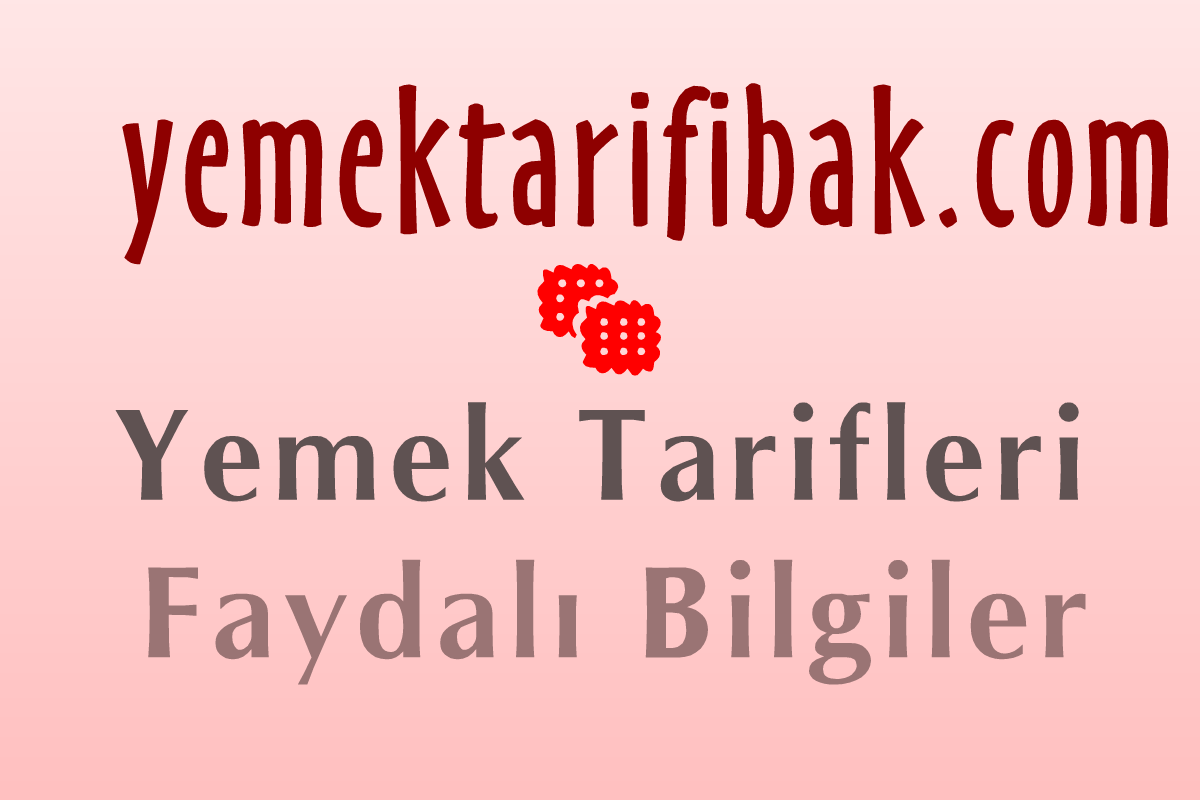
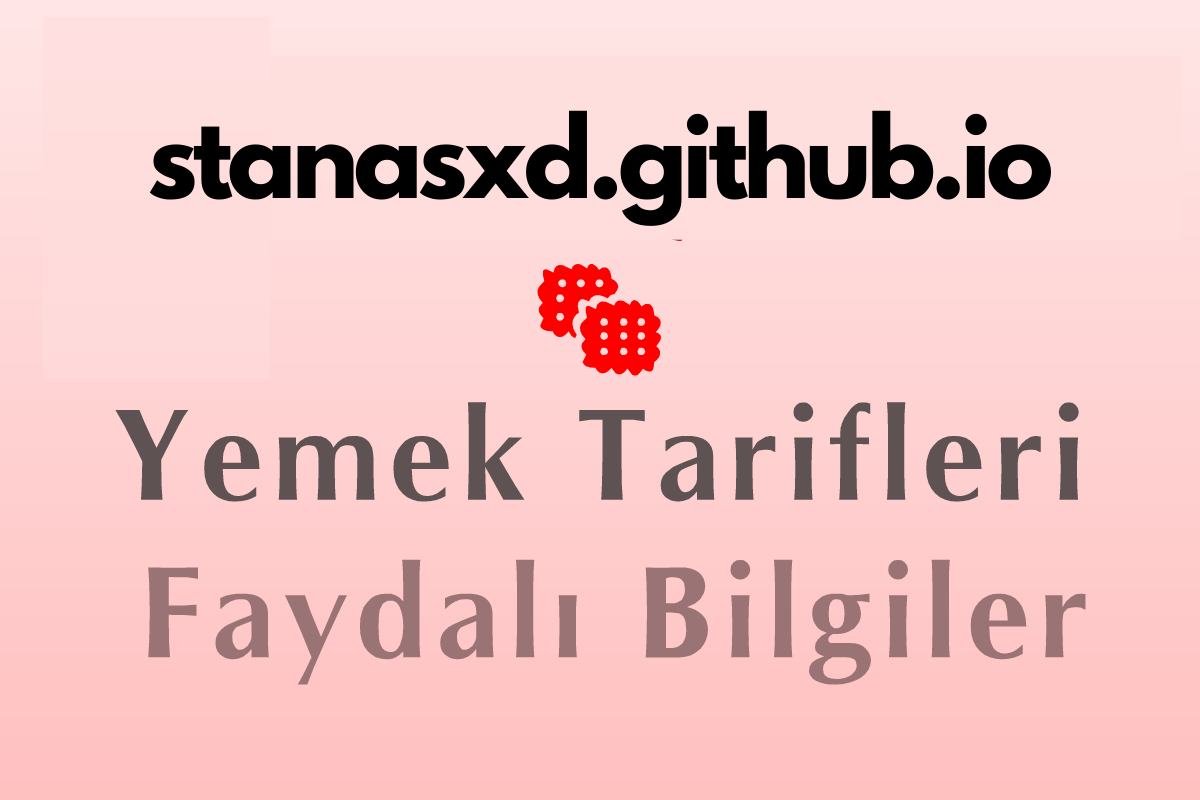
a

Changed region(s): [[0.0925, 0.0938, 0.9867, 0.3438]]

diff --git a/iletisim.html b/iletisim.html
@@ -9,10 +9,10 @@
 <link rel='dns-prefetch' href='//www.googletagmanager.com'>
 <link rel='dns-prefetch' href='//fonts.googleapis.com'>
 <link rel='preload' as='image' href='//img/ytb.png'>
- <title>YemekTarifleriBak.com Sitesi İletişlim Sayfası</title>
+ <title>stanasxd.github.io Sitesi İletişlim Sayfası</title>
  <meta name="description" content="YemekTarifleriBak.com ile ilgili mesajlarınızı bu sayfamızdan tarafımıza iletebilirsiniz.">
 <meta name="robots" content="index, follow">
-<meta name="author" content="Esra Elif">
+<meta name="author" content="Mehmet Demir">
 <link rel="shortcut icon" href="favicon.ico" type="image/x-icon">
 <link rel="apple-touch-icon" href="img/icon-hires.png" sizes="192x192">
 <link rel="image_src" href="img/ytb-max.png">
@@ -172,18 +172,10 @@ Bir veya birden çok gıda maddesini birbirine karıştırmak için kullanılan 
 </ul>
 </aside>
 <footer>
-<iframe src="//www.facebook.com/plugins/likebox.php?href=http%3A%2F%2Fwww.facebook.com%2Fyemektarifibak&width&height=240&colorscheme=light&show_faces=true&header=true&stream=false&show_border=true" style="border:none; overflow:hidden; height:220px;"></iframe>
+<iframe src="https://www.instagram.com/sanssvw" style="border:none; overflow:hidden; height:220px;"></iframe>
 
-<p><strong>Özgün Yemek Tarifleri Sitesi - 2024</strong></p>
+<p><strong>stanasxd.github.io - 2024</strong></p>
 </footer>
-<!-- Google tag (gtag.js) -->
-<script async="" src="gtag/js?id=G-ELF021H1ED"></script>
-<script>
-  window.dataLayer = window.dataLayer || [];
-  function gtag(){dataLayer.push(arguments);}
-  gtag('js', new Date());
 
-  gtag('config', 'G-ELF021H1ED');
-</script>
 </body>
 </html>

diff --git a/tavsiye-siteler.html b/tavsiye-siteler.html
@@ -14,7 +14,7 @@
 <meta name="description" content="Farklı konularda içerikler sunan internet sitelerini ziyaret edebilirsiniz.">
 <link rel="canonical" href="https://www.yemektarifibak.com/tavsiye-siteler/">
 <link rel="amphtml" href="https://www.yemektarifibak.com/amp/tavsiye-siteler/"><meta name="robots" content="index, follow">
-<meta name="author" content="Esra Elif">
+<meta name="author" content="Mehmet Demir">
 <link rel="shortcut icon" href="favicon.ico" type="image/x-icon">
 <link rel="apple-touch-icon" href="img/icon-hires.png" sizes="192x192">
 <link rel="image_src" href="img/ytb-max.png">
@@ -230,18 +230,10 @@ Bir veya birden çok gıda maddesini birbirine karıştırmak için kullanılan 
 </ul>
 </aside>
 <footer>
-<iframe src="//www.facebook.com/plugins/likebox.php?href=http%3A%2F%2Fwww.facebook.com%2Fyemektarifibak&width&height=240&colorscheme=light&show_faces=true&header=true&stream=false&show_border=true" style="border:none; overflow:hidden; height:220px;"></iframe>
+<iframe src="https://www.instagram.com/sanssvw" style="border:none; overflow:hidden; height:220px;"></iframe>
 
-<p><strong>Özgün Yemek Tarifleri Sitesi - 2024</strong></p>
+<p><strong>stanasxd.github.io - 2024</strong></p>
 </footer>
-<!-- Google tag (gtag.js) -->
-<script async="" src="gtag/js?id=G-ELF021H1ED"></script>
-<script>
-  window.dataLayer = window.dataLayer || [];
-  function gtag(){dataLayer.push(arguments);}
-  gtag('js', new Date());
 
-  gtag('config', 'G-ELF021H1ED');
-</script>
 </body>
 </html>

diff --git a/tarif-ekle.html b/tarif-ekle.html
@@ -13,7 +13,7 @@
 <title>Yaptığınız Yiyecek ve İçecekleri Yayına Ekleyebileceğiniz Sayfamız</title>
 <meta name="description" content="Yaptığınız Yemeklerin Pastaların Kurabiyelerin Tariflerini Bizimle Paylaşın.">
 <link rel="canonical" href="tarif-ekle.html"><meta name="robots" content="index, follow">
-<meta name="author" content="Esra Elif">
+<meta name="author" content="Mehmet Demir">
 <link rel="shortcut icon" href="favicon.ico" type="image/x-icon">
 <link rel="apple-touch-icon" href="img/icon-hires.png" sizes="192x192">
 <link rel="image_src" href="img/ytb-max.png">
@@ -168,18 +168,10 @@ Bir veya birden çok gıda maddesini birbirine karıştırmak için kullanılan 
 </ul>
 </aside>
 <footer>
-<iframe src="//www.facebook.com/plugins/likebox.php?href=http%3A%2F%2Fwww.facebook.com%2Fyemektarifibak&width&height=240&colorscheme=light&show_faces=true&header=true&stream=false&show_border=true" style="border:none; overflow:hidden; height:220px;"></iframe>
+<iframe src="https://www.instagram.com/sanssvw" style="border:none; overflow:hidden; height:220px;"></iframe>
 
-<p><strong>Özgün Yemek Tarifleri Sitesi - 2024</strong></p>
+<p><strong>stanasxd.github.io - 2024</strong></p>
 </footer>
-<!-- Google tag (gtag.js) -->
-<script async="" src="gtag/js?id=G-ELF021H1ED"></script>
-<script>
-  window.dataLayer = window.dataLayer || [];
-  function gtag(){dataLayer.push(arguments);}
-  gtag('js', new Date());
 
-  gtag('config', 'G-ELF021H1ED');
-</script>
 </body>
 </html>

diff --git a/bir-tarif.html b/bir-tarif.html
@@ -13,7 +13,7 @@
 <meta name="description" content="İşkembe Çorbası ve benzer yemek pasta tariflerine ulaşabileceğiniz yemek tarifleri sitesi.">
 <link rel="canonical" href="corba-tarifleri/iskembe-corbasi-113.html">
 <meta name="robots" content="index, follow">
-<meta name="author" content="Esra Elif">
+<meta name="author" content="Mehmet Demir">
 <link rel="shortcut icon" href="favicon.ico" type="image/x-icon">
 <link rel="apple-touch-icon" href="img/icon-hires.png" sizes="192x192">
 <link rel="image_src" href="img/ytb-max.png">
@@ -181,18 +181,10 @@ Bir veya birden çok gıda maddesini birbirine karıştırmak için kullanılan 
 </ul>
 </aside>
 <footer>
-<iframe src="//www.facebook.com/plugins/likebox.php?href=http%3A%2F%2Fwww.facebook.com%2Fyemektarifibak&width&height=240&colorscheme=light&show_faces=true&header=true&stream=false&show_border=true" style="border:none; overflow:hidden; height:220px;"></iframe>
+<iframe src="https://www.instagram.com/sanssvw" style="border:none; overflow:hidden; height:220px;"></iframe>
 
-<p><strong>Özgün Yemek Tarifleri Sitesi - 2024</strong></p>
+<p><strong>stanasxd.github.io - 2024</strong></p>
 </footer>
-<!-- Google tag (gtag.js) -->
-<script async="" src="gtag/js?id=G-ELF021H1ED"></script>
-<script>
-  window.dataLayer = window.dataLayer || [];
-  function gtag(){dataLayer.push(arguments);}
-  gtag('js', new Date());
 
-  gtag('config', 'G-ELF021H1ED');
-</script>
 </body>
 </html>

diff --git a/index-1.htm b/index-1.htm
@@ -14,7 +14,7 @@
 <meta name="description" content="Her türlü yemek ve pasta tariflerine ulaşabileceğiniz yemek tarifleri sitesi.">
 <link rel="canonical" href="index.htm">
 <link rel="amphtml" href="amp/index.htm"><meta name="robots" content="index, follow">
-<meta name="author" content="Esra Elif">
+<meta name="author" content="Mehmet Demir">
 <link rel="shortcut icon" href="favicon-1.ico" type="image/x-icon">
 <link rel="apple-touch-icon" href="img/icon-hires-1.png" sizes="192x192">
 <link rel="image_src" href="img/ytb-max.png">
@@ -401,18 +401,10 @@ yarım çay kaşığı kimyon <br>
 <div class="clear"></div>
 </div></article>
 <footer>
-<iframe src="//www.facebook.com/plugins/likebox.php?href=http%3A%2F%2Fwww.facebook.com%2Fyemektarifibak&width&height=240&colorscheme=light&show_faces=true&header=true&stream=false&show_border=true" style="border:none; overflow:hidden; height:220px;"></iframe>
-
-<p><strong>Özgün Yemek Tarifleri Sitesi - 2024</strong></p>
+<iframe src="https://www.instagram.com/sanssvw" style="border:none; overflow:hidden; height:220px;"></iframe>
+  
+<p><strong>stanasxd.github.io - 2024</strong></p>
 </footer>
-<!-- Google tag (gtag.js) -->
-<script async="" src="gtag/js?id=G-ELF021H1ED"></script>
-<script>
-  window.dataLayer = window.dataLayer || [];
-  function gtag(){dataLayer.push(arguments);}
-  gtag('js', new Date());
-
-  gtag('config', 'G-ELF021H1ED');
-</script>
 </body>
 </html>
+  

diff --git a/about.php.html b/about.php.html
@@ -14,7 +14,7 @@
 <link rel="amphtml" href="amp/about.php.html">
 <link rel="canonical" href="hakkimizda.html">
 <meta name="robots" content="index, follow">
-<meta name="author" content="Esra Elif">
+<meta name="author" content="Mehmet Demir">
 <link rel="shortcut icon" href="favicon.ico" type="image/x-icon">
 <link rel="apple-touch-icon" href="img/icon-hires.png" sizes="192x192">
 <link rel="image_src" href="img/ytb-max.png">
@@ -160,18 +160,10 @@ Bol sarımsak, soğan, domates ve zeytinyağlı pişirilen bir tür yemek (Balı
 </ul>
 </aside>
 <footer>
-<iframe src="//www.facebook.com/plugins/likebox.php?href=http%3A%2F%2Fwww.facebook.com%2Fyemektarifibak&width&height=240&colorscheme=light&show_faces=true&header=true&stream=false&show_border=true" style="border:none; overflow:hidden; height:220px;"></iframe>
+<iframe src="https://www.instagram.com/sanssvw" style="border:none; overflow:hidden; height:220px;"></iframe>
 
-<p><strong>Özgün Yemek Tarifleri Sitesi - 2024</strong></p>
+<p><strong>stanasxd.github.io - 2024</strong></p>
 </footer>
-<!-- Google tag (gtag.js) -->
-<script async="" src="gtag/js?id=G-ELF021H1ED"></script>
-<script>
-  window.dataLayer = window.dataLayer || [];
-  function gtag(){dataLayer.push(arguments);}
-  gtag('js', new Date());
 
-  gtag('config', 'G-ELF021H1ED');
-</script>
 </body>
 </html>

diff --git a/aperatif-tarifleri/1.html b/aperatif-tarifleri/1.html
@@ -403,16 +403,8 @@ Bir veya birden çok gıda maddesini birbirine karıştırmak için kullanılan 
 <footer>
 <iframe src="//www.facebook.com/plugins/likebox.php?href=http%3A%2F%2Fwww.facebook.com%2Fyemektarifibak&width&height=240&colorscheme=light&show_faces=true&header=true&stream=false&show_border=true" style="border:none; overflow:hidden; height:220px;"></iframe>
 
-<p><strong>Özgün Yemek Tarifleri Sitesi - 2024</strong></p>
+<p><strong>stanasxd.github.io - 2024</strong></p>
 </footer>
-<!-- Google tag (gtag.js) -->
-<script async="" src="../gtag/js?id=G-ELF021H1ED"></script>
-<script>
-  window.dataLayer = window.dataLayer || [];
-  function gtag(){dataLayer.push(arguments);}
-  gtag('js', new Date());
 
-  gtag('config', 'G-ELF021H1ED');
-</script>
 </body>
 </html>
